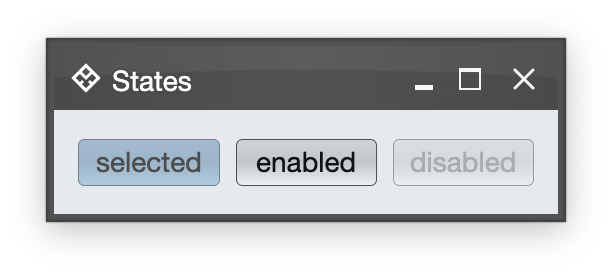
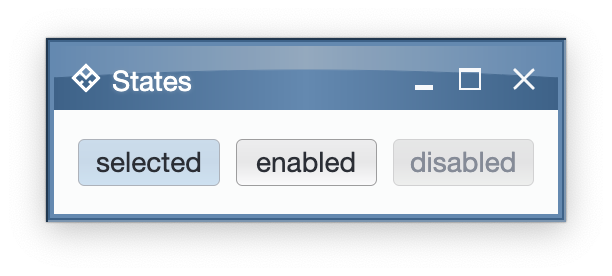
Tweak theming docs

diff --git a/demo/src/desktopMain/kotlin/org/pushingpixels/aurora/demo/states/ComponentStatesBasic.kt b/demo/src/desktopMain/kotlin/org/pushingpixels/aurora/demo/states/ComponentStatesBasic.kt
@@ -34,6 +34,7 @@ import org.pushingpixels.aurora.component.projection.CommandButtonProjection
 import org.pushingpixels.aurora.demo.svg.radiance_menu
 import org.pushingpixels.aurora.theming.IconFilterStrategy
 import org.pushingpixels.aurora.theming.businessBlackSteelSkin
+import org.pushingpixels.aurora.theming.ceruleanSkin
 import org.pushingpixels.aurora.window.AuroraWindow
 import org.pushingpixels.aurora.window.auroraApplication
 
@@ -46,7 +47,7 @@ fun main() = auroraApplication {
     )
 
     AuroraWindow(
-        skin = businessBlackSteelSkin(),
+        skin = ceruleanSkin(),
         title = "States",
         icon = radiance_menu(),
         iconFilterStrategy = IconFilterStrategy.ThemedFollowText,

diff --git a/theming/src/desktopMain/kotlin/org/pushingpixels/aurora/theming/CeruleanSkin.kt b/theming/src/desktopMain/kotlin/org/pushingpixels/aurora/theming/CeruleanSkin.kt
@@ -34,7 +34,6 @@ private fun ceruleanSkinColors(): AuroraSkinColors {
 
     val activeScheme = schemes["Cerulean Active"]
     val enabledScheme = schemes["Cerulean Enabled"]
-    val rolloverSelectedScheme = schemes["Cerulean Rollover Selected"]
     val disabledScheme = schemes["Cerulean Disabled"]
 
     val defaultSchemeBundle = AuroraColorSchemeBundle(
@@ -103,6 +102,7 @@ private fun ceruleanSkinColors(): AuroraSkinColors {
             ComponentStateFacet.Enable, ComponentStateFacet.Selection
         )
     )
+    val rolloverSelectedScheme = schemes["Cerulean Rollover Selected"]
     defaultSchemeBundle.registerColorScheme(
         rolloverSelectedScheme,
         ColorSchemeAssociationKind.Fill,

diff --git a/docs/theming/skins/colorschemebundles.md b/docs/theming/skins/colorschemebundles.md
@@ -24,26 +24,26 @@ The `ComponentState` is the base class for core and custom [component states](co
    )
 ```
 
-Here is a screenshot of three buttons (active, default and disabled) under the core [Business Black Steel skin](toneddown.md#business-black-steel):
+Here is a screenshot of three buttons (active, default and disabled) under the core [Cerulean skin](toneddown.md#cerulean):
 
 <img src="https://raw.githubusercontent.com/kirill-grouchnikov/aurora/icicle/docs/images/theming/states/component-states-basic.png" width="306" height="138" />
 
 Here is the relevant code snippet from the definition of this skin:
 
 ```kotlin
-val businessSchemes = getColorSchemes(
+val schemes = getColorSchemes(
     AuroraSkin::class.java.getResourceAsStream(
-        "/org/pushingpixels/aurora/theming/business.colorschemes"
+        "/org/pushingpixels/aurora/theming/cerulean.colorschemes"
     )
 )
 
-val activeScheme = businessSchemes["Business Black Steel Active"]
-val enabledScheme = businessSchemes["Business Black Steel Enabled"]
-val disabledScheme = businessSchemes["Business Black Steel Disabled"]
+val activeScheme = schemes["Cerulean Active"]
+val enabledScheme = schemes["Cerulean Enabled"]
+val disabledScheme = schemes["Cerulean Disabled"]
 
-// the default color scheme bundle
 val defaultSchemeBundle = AuroraColorSchemeBundle(
-    activeScheme, enabledScheme, disabledScheme)
+    activeScheme, enabledScheme, disabledScheme
+)
 ```
 
 ### More states

diff --git a/docs/theming/skins/colorschemes-fileformat.md b/docs/theming/skins/colorschemes-fileformat.md
@@ -16,16 +16,16 @@ val businessSchemes = getColorSchemes(
 )
 ```
 
-Then, use `AuroraSkin.ColorSchemes.get(String)` API to get a specific color scheme based on its name:
+Then, use `AuroraSkin.ColorSchemes.get(String)` API (that is also available via Kotlin's [index operator](https://kotlinlang.org/api/latest/jvm/stdlib/kotlin/-array/get.html)) to get a specific color scheme based on its name:
 
 ```java
-val activeScheme = businessSchemes["Business Black Steel Active"]
-val enabledScheme = businessSchemes["Business Black Steel Enabled"]
-val disabledScheme = businessSchemes["Business Black Steel Disabled"]
+val activeScheme = schemes["Cerulean Active"]
+val enabledScheme = schemes["Cerulean Enabled"]
+val disabledScheme = schemes["Cerulean Disabled"]
 
-// the default color scheme bundle
 val defaultSchemeBundle = AuroraColorSchemeBundle(
-    activeScheme, enabledScheme, disabledScheme);
+    activeScheme, enabledScheme, disabledScheme
+)
 ```
 
 ### File format
